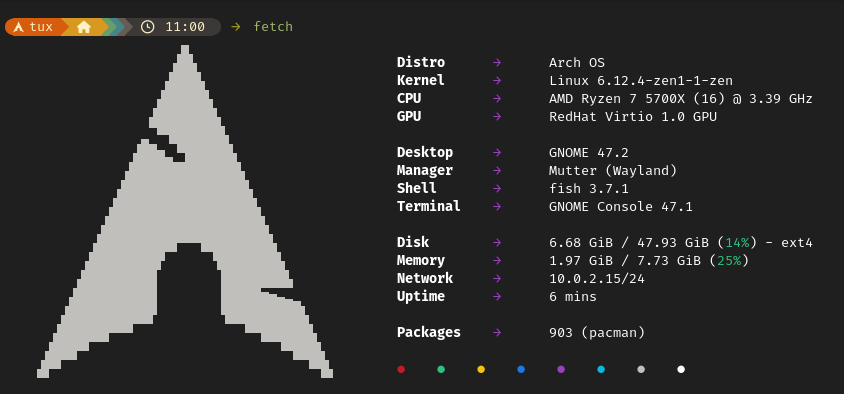
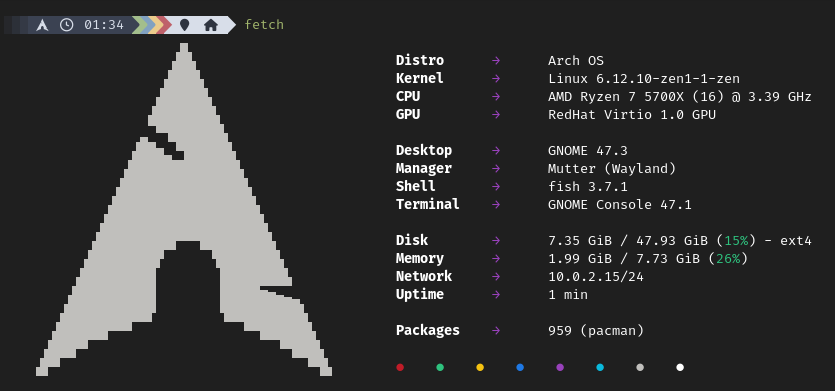
1.8.0
- New starship promt
- New vim (spacevim)
- Replace power-profiles-daemon
- Add #95 enhance init (keyboard layout)
- Add basic desktop packages
- Cleanup
- Docs

diff --git a/docs/DOCS.md b/docs/DOCS.md
@@ -29,7 +29,20 @@ For a robust & stable Arch OS experience, install as few additional packages fro
 - Show package info: **`paru -Qi <my package>`**
 - Remove package: **`paru -Rsn <my package>`**
 
+**Note:** See `~/.aliases` for useful command aliases
+
+### GNOME Shortcuts
+
+**Note:** Only available with default installation preset (desktop).
+
+- Close Window: **`Super + q`**
+- Hide Window: **`Super + h`**
+- Toggle Desktop: **`Super + d`**
+- Toggle Fullscreen: **`Super + F11`**
+
 ### Additional Packages (optional)
+
+**Note:** The target of the respective URL is also the recommended way to install the package.
 
 - Install [Pika Backup](https://flathub.org/apps/details/org.gnome.World.PikaBackup) for backup and restore home files
 - Install [Extension Manager](https://flathub.org/apps/com.mattjakeman.ExtensionManager) for manage GNOME Extensions
@@ -45,6 +58,16 @@ For a robust & stable Arch OS experience, install as few additional packages fro
 - Install [Monitorets](https://flathub.org/de/apps/io.github.jorchube.monitorets) as sticky system monitor
 - Install [MissionCenter](https://flathub.org/de/apps/io.missioncenter.MissionCenter) as system monitor
 - Install [Parabolic](https://flathub.org/de/apps/org.nickvision.tubeconverter) as download manager
+- Install [Amberol](https://archlinux.org/packages/extra/x86_64/amberol/) or [Gapless](https://flathub.org/apps/com.github.neithern.g4music) as music player
+- Install [noisetorch](https://aur.archlinux.org/packages/noisetorch) for microphone noise suppression
+- Install [AddWater](https://flathub.org/apps/dev.qwery.AddWater) for Firefox GNOME Theme
+- Install [MenuLibre](https://aur.archlinux.org/packages/menulibre) as desktop app editor
+- Install [File Roller](https://archlinux.org/packages/extra/x86_64/file-roller/) as archive helper tool
+- Install [GNOME Firmware](https://archlinux.org/packages/extra/x86_64/gnome-firmware/) to update firmware of the local hardware
+- Install [seahorse](https://archlinux.org/packages/extra/x86_64/seahorse/) as keyring editor (login password can be set to empty)
+- Install [dconf-editor](https://archlinux.org/packages/extra/x86_64/dconf-editor/) as graphical tool for `gsettings` and `dconf`
+- Install [GNOME Tweaks](https://archlinux.org/packages/extra/x86_64/gnome-tweaks/) as graphical tool for advanced GNOME settings
+- Install [Refine](https://flathub.org/apps/page.tesk.Refine) as replacement for GNOME Tweaks
 
 ### Theming (optional)
 
@@ -52,30 +75,59 @@ For a robust & stable Arch OS experience, install as few additional packages fro
 - Desktop Theme: [adw-gtk3](https://github.com/lassekongo83/adw-gtk3)
 - Icon Theme: [tela-icon-theme](https://github.com/vinceliuice/Tela-icon-theme), [tela-circle-icon-theme](https://github.com/vinceliuice/Tela-circle-icon-theme)
 - Cursor Theme: [capitaine-cursors](https://archlinux.org/packages/extra/any/capitaine-cursors), [nordzy-cursors](https://github.com/alvatip/Nordzy-cursors)
-- Firefox Theme: [firefox-gnome-theme](https://github.com/rafaelmardojai/firefox-gnome-theme)
+- Firefox Theme: [AddWater](https://flathub.org/apps/dev.qwery.AddWater), [firefox-gnome-theme](https://github.com/rafaelmardojai/firefox-gnome-theme)
 
 ### GNOME Extensions (optional)
 
 - [archlinux-updates-indicator](https://extensions.gnome.org/extension/1010/archlinux-updates-indicator/)
 - [app-indicator-support](https://extensions.gnome.org/extension/615/appindicator-support/)
-- [lilypad](https://extensions.gnome.org/extension/7266/lilypad/)
-- [just-perfection](https://extensions.gnome.org/extension/3843/just-perfection/)
-- [dash-to-dock](https://extensions.gnome.org/extension/307/dash-to-dock/)
-- [dash-to-panel](https://extensions.gnome.org/extension/1160/dash-to-panel/)
-- [blur-my-shell](https://extensions.gnome.org/extension/3193/blur-my-shell/)
 - [weather-oclock](https://extensions.gnome.org/extension/5470/weather-oclock/)
-- [tiling-assistant](https://extensions.gnome.org/extension/3733/tiling-assistant/)
-- [system-monitor](https://extensions.gnome.org/extension/6807/system-monitor/)
-- [vitals](https://extensions.gnome.org/extension/1460/vitals/)
+- [just-perfection](https://extensions.gnome.org/extension/3843/just-perfection/)
+- [dash-to-panel](https://extensions.gnome.org/extension/1160/dash-to-panel/)
+- [dash-to-dock](https://extensions.gnome.org/extension/307/dash-to-dock/)
 - [caffeine](https://extensions.gnome.org/extension/517/caffeine/)
-- [light-style](https://extensions.gnome.org/extension/6198/light-style/)
-- [gamemode-indicator](https://extensions.gnome.org/extension/6340/gamemode-indicator-in-system-settings/)
-
-#### Tweak Extensions
-
-- [fullscreen-to-empty-workspace](https://extensions.gnome.org/extension/6072/fullscreen-to-empty-workspace/) (open fullscreen apps on new workspace)
+- [tiling-assistant](https://extensions.gnome.org/extension/3733/tiling-assistant/)
+- [happy-appy-hotkey](https://extensions.gnome.org/extension/6057/happy-appy-hotkey/)
+- [app-hider](https://extensions.gnome.org/extension/5895/app-hider/)
+- [hide-minimized](https://extensions.gnome.org/extension/2639/hide-minimized/)
+- [blur-my-shell](https://extensions.gnome.org/extension/3193/blur-my-shell/)
+- [open-bar](https://extensions.gnome.org/extension/6580/open-bar/)
+- [vitals](https://extensions.gnome.org/extension/1460/vitals/)
+- [system-monitor](https://extensions.gnome.org/extension/6807/system-monitor/)
+- [fullscreen-to-empty-workspace](https://extensions.gnome.org/extension/7559/fullscreen-to-empty-workspace/) (open fullscreen apps on new workspace)
 - [disable-unredirect-fullscreen](https://extensions.gnome.org/extension/1873/disable-unredirect-fullscreen-windows/) (fix some issues)
 - [window-calls](https://extensions.gnome.org/extension/4724/window-calls/) (alternative to wmctrl in wayland)
+- [lilypad](https://extensions.gnome.org/extension/7266/lilypad/) (deprecated)
+
+### Office Support
+
+- [LibreOffice](https://archlinux.org/packages/extra/x86_64/libreoffice-fresh/)
+- [OnlyOffice](https://flathub.org/apps/org.onlyoffice.desktopeditors)
+- [Drawing](https://flathub.org/apps/com.github.maoschanz.drawing)
+- [BoxySVG](https://flathub.org/apps/com.boxy_svg.BoxySVG)
+
+### Realtime Streaming to other PC, TV or Smart Device
+
+- Streaming Server: [Sunshine](https://docs.lizardbyte.dev/projects/sunshine/latest/index.html)
+- Streaming Client: [Moonlight](https://moonlight-stream.org)
+- Discord: [Vesktop](https://flathub.org/apps/dev.vencord.Vesktop) (incl. Wayland Screen Sharing)
+
+#### Install Sunshine (Streaming Server)
+
+1. Add [LizardByte Repository](https://github.com/LizardByte/pacman-repo) to Pacman config: `sudo nano /etc/pacman.conf`
+
+```
+[lizardbyte]
+SigLevel = Optional
+Server = https://github.com/LizardByte/pacman-repo/releases/latest/download
+```
+
+2. Install Sunshine: `sudo pacman -Syyu lizardbyte/sunshine`
+3. Start Sunshine Desktop Application (see system tray)
+4. Open local Sunshine Web Interface: https://localhost:47990 and set username and password
+5. Simply start streaming with [Moonlight](https://moonlight-stream.org)
+
+Source: [LizardByte Docs](https://docs.lizardbyte.dev/projects/sunshine/latest/md_docs_2getting__started.html#archlinux)
 
 ### For Developer
 
@@ -94,12 +146,13 @@ For native **Microsoft Windows Gaming** install [Qemu](https://wiki.archlinux.or
 
 **Note:** Use [gamemode](https://wiki.archlinux.org/title/Gamemode) when playing games from Linux with: `gamemoderun <file>`
 
-#### Gaming Meta Package (recommended)
+#### Gaming Meta Package
 
-You can install install [AUR/arch-gaming-meta](https://aur.archlinux.org/packages/arch-gaming-meta) package to install some useful apps and libraries for gaming:
+You can install install [AUR/lutris-wine-meta](https://aur.archlinux.org/packages/lutris-wine-meta) and [AUR/arch-gaming-meta](https://aur.archlinux.org/packages/arch-gaming-meta) package to install some useful apps and libraries for gaming:
 
 ```
-paru -S arch-gaming-meta
+paru -S lutris-wine-meta # Recommended from lutris maintainers
+paru -S arch-gaming-meta # Has a lot of depenencies
 ```
 
 #### Steam
@@ -109,19 +162,21 @@ Install prefered Steam version:
 - Average between performance and compatibility: `paru -S steam`
 - Best performance: `paru -S steam-native`
 - Best compatibility: `flatpak install com.valvesoftware.Steam`
+- Install and apply GNOME Theme: [AdwSteamGtk](https://flathub.org/apps/io.github.Foldex.AdwSteamGtk)
 
-#### Other Tools
+#### Other Gaming Tools
 
 - [Lutris](https://archlinux.org/packages/extra/any/lutris/)
 - [Bottles](https://aur.archlinux.org/packages/bottles)
 - [RetroDeck](https://flathub.org/apps/net.retrodeck.retrodeck)
 - [Cartridges](https://flathub.org/de/apps/page.kramo.Cartridges)
-- [Sunshine Streaming Server](https://docs.lizardbyte.dev/projects/sunshine/en/latest/about/setup.html#install)
-- [Moonlight Streaming Client](https://flathub.org/apps/com.moonlight_stream.Moonlight)
+- [ScummVM](https://flathub.org/apps/org.scummvm.ScummVM)
 - [Wine](https://archlinux.org/packages/multilib/x86_64/wine/), [Winetricks](https://archlinux.org/packages/multilib/x86_64/winetricks/)
 - [Proton](https://aur.archlinux.org/packages/proton-ge-custom-bin), [Protontricks](https://aur.archlinux.org/packages/protontricks)
 - [Gamescope](https://archlinux.org/packages/extra/x86_64/gamescope/)
-- [ProtonPlus](https://aur.archlinux.org/packages/protonplus)
+- [MangoHud](https://archlinux.org/packages/extra/x86_64/mangohud/)
+- [ProtonPlus](https://flathub.org/apps/com.vysp3r.ProtonPlus)
+- [Haguichi](https://flathub.org/apps/com.github.ztefn.haguichi), [logmein-hamachi](https://aur.archlinux.org/packages/logmein-hamachi])
 
 ### For Audiophiles
 
@@ -229,14 +284,19 @@ Disable this feature with `ARCH_OS_HOUSEKEEPING_ENABLED='false'`
 
 <p><img src="screenshots/fastfetch.png"></p>
 
-If the property `ARCH_OS_SHELL_ENHANCEMENT_ENABLED` is set to `true`, the following packages are installed and preconfigured (for root & user). To keep `bash` as default shell, set `ARCH_OS_SHELL_ENHANCEMENT_FISH_ENABLED='false'`:
+If the property `ARCH_OS_SHELL_ENHANCEMENT_ENABLED` is set to `true`, the following packages are installed and preconfigured (for root & user). To keep `bash` as default shell, set `ARCH_OS_SHELL_ENHANCEMENT_FISH_ENABLED='false'`.
+
+<strong>Package Dependencies:</strong>
 
 ```
 fish starship eza bat fastfetch mc btop nano man-db bash-completion nano-syntax-highlighting
 ```
 
+**Promt Theme [➜ Arch OS Starship Theme](https://github.com/murkl/starship-theme-arch-os)**
+
 - `fish` is set as default shell
 - `starship` is set as fancy default promt see `~/.config/fish/config.fish`
+- `nvim` is preconfigured with SpaceVim and linked to `/usr/bin/vim` and `/usr/bin/vi`
 - `ls` is replaced with colorful `eza` see `~/.aliases`
 - `man` is replaced with colorful `bat` see `~/.config/fish/config.fish`
 - `nano` is set as default editor
@@ -244,19 +304,22 @@ fish starship eza bat fastfetch mc btop nano man-db bash-completion nano-syntax-
 
 #### Useful Terminal commands
 
-- `bash` switch to bash
+- `help` open fish help in browser
+- `history` open command history
+- `fish` open fish shell (default)
+- `bash` switch to bash shell (go back to fish with `q`)
+- `vim` open enhanced file editor
 - `fetch` show system info
 - `btop` show system manager
 - `logs` show system logs
+- `mc` open file manager
 - `ll` list files in dir
 - `la` list all files (+ hidden files) in dir
 - `lt` tree files in dir
-- `mc` open file manager
-- `open <file>` open file in GNOME app
-- `history` open command history
-- `help` open fish help in browser
+- `.` go back
 - `c` clear screen
 - `q` exit
+- `open <file>` open file in GNOME app
 
 **Note:** See `~/.aliases` for all command aliases
 
@@ -520,4 +583,3 @@ Many thanks for these projects and the people behind them!
 - Arch Linux
 - GNOME
 - Gum by charm
-- Wallpaper: Mountain Lake by Agustin Gaute

diff --git a/docs/README.md b/docs/README.md
@@ -43,7 +43,7 @@ This project aims to provide a mostly automized, minimal and robust Arch Linux b
 <p>
   <strong>Test successful</strong>
   <br>
-  <a target="_blank" href="https://www.archlinux.de/releases/2024.12.01">archlinux-2024.12.01-x86_64.iso</a>
+  <a target="_blank" href="https://www.archlinux.de/releases/2025.01.01">archlinux-2025.01.01-x86_64.iso</a>
   <br>
   <sub>100% shellcheck approved</sub>
 </p>
@@ -78,13 +78,14 @@ This project aims to provide a mostly automized, minimal and robust Arch Linux b
 - [Pipewire Audio](DOCS.md#for-audiophiles) (Dolby Atmos supported)
 - Flatpak Support + Auto Update (GNOME Software)
 - Samba, Networking Protocol Libs, Git, Utils & Codecs included
+- GNOME Power Profiles Support (tuned-ppd)
+- VPN Support
+- Basic Fonts
 - Wayland optimized
-- GNOME Power Profiles Support
 - Auto Login enabled
 - Printer Support (cups)
 - SSH Agent (gcr)
 - Gamemode preinstalled
-- Firmware Update Tool preinstalled
 
 ## Additional Features
 
@@ -92,9 +93,11 @@ This project aims to provide a mostly automized, minimal and robust Arch Linux b
 - [Arch OS Bootsplash](https://github.com/murkl/plymouth-theme-arch-os)
 - [Arch OS System Manager](DOCS.md#arch-os-manager)
 - [Arch OS Shell Enhancement](DOCS.md#shell-enhancement)
+- [Arch OS Starship Theme](https://github.com/murkl/starship-theme-arch-os)
 - [Arch OS Automatic Housekeeping](DOCS.md#housekeeping)
 - [AUR Helper](DOCS.md#advanced-installation) (configurable)
 - [VM Support](DOCS.md#vm-support) (optional)
+- [SpaceVim](https://spacevim.org) (optional)
 - 32 Bit Support (Multilib)
 - Disk Encryption (LUKS2)
 
@@ -132,7 +135,7 @@ Select one of these presets to install your individual Arch Linux base:
 
 ![Animated Arch OS Installation](./animation.gif)
 
-_Cancel the Arch OS Installer with `CTRL + c`_
+_Cancel the Arch OS Installer with `Ctrl + c`_
 
 **Note:** If the `installer.conf` exists in the working dir (auto-detected), all properties are loaded as preset (except the password).
 
@@ -155,7 +158,9 @@ To streamline this process, you can use the preinstalled **[➜ Arch OS System M
 
 ## Screenshots
 
+<p><div><img src="./screenshots/starship.png"></div><sub><i>Arch OS Starship Promt Demo</i></sub></p>
 <p><div><img src="./screenshots/desktop_demo.jpg"></div><sub><i>Arch OS Desktop Demo</i></sub></p>
+<p><div><img src="./screenshots/vim.png"></div><sub><i>SpaceVim Demo</i></sub></p>
 <p><div><img src="./screenshots/bootsplash.png"></div><sub><i>Arch OS Bootsplash</i></sub></p>
 <p><div><img src="./screenshots/fastfetch.png"></div><sub><i>Arch OS Shell Enhancement</i></sub></p>
 <p><div><img src="./screenshots/manager_upgrade.png"></div><sub><i>Arch OS Manager - System Upgrade Demo</i></sub></p>
